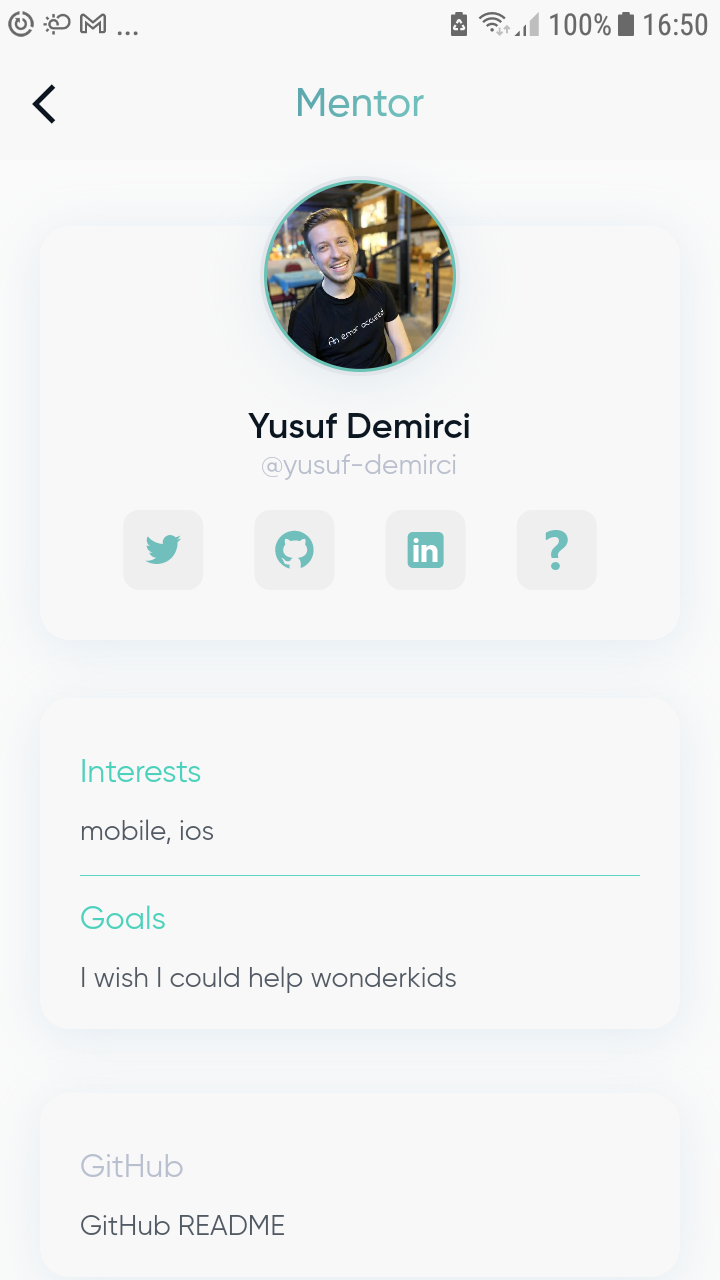
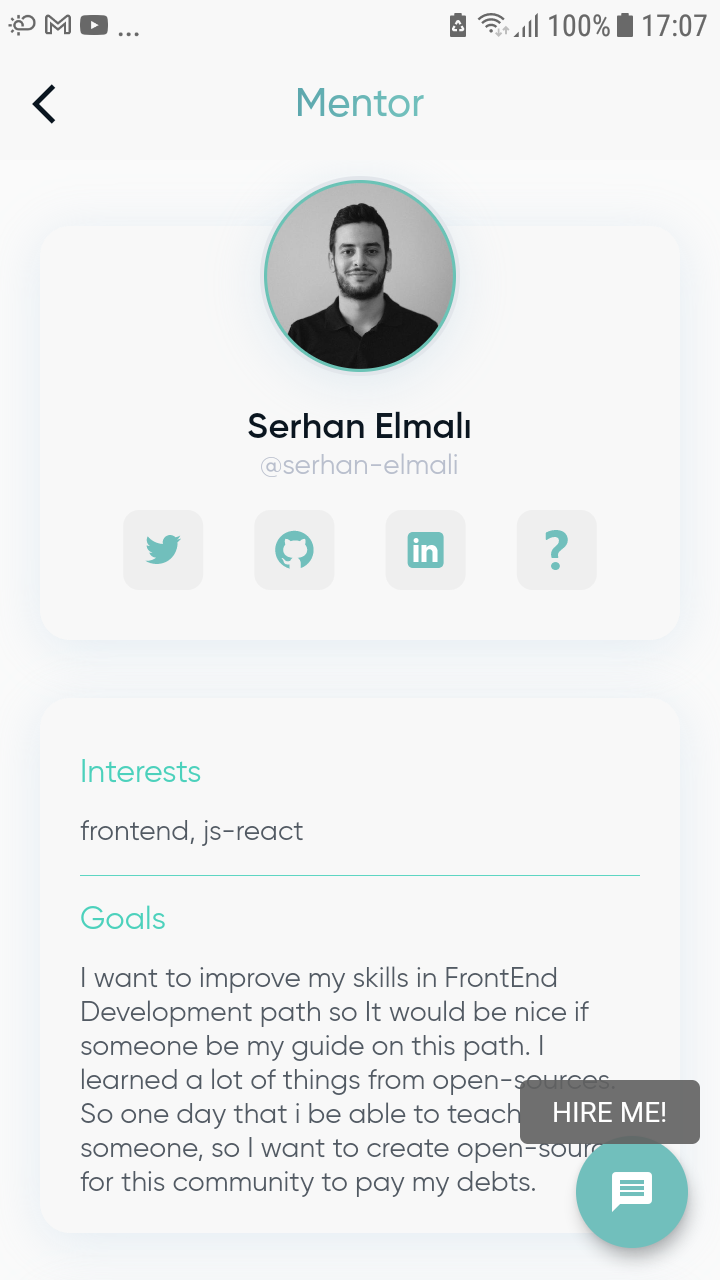
HIRE ME!

diff --git a/find_mentor/lib/page/home/persons_detail_page/persons_detail_page.dart b/find_mentor/lib/page/home/persons_detail_page/persons_detail_page.dart
@@ -1,5 +1,6 @@
 import 'package:flutter/material.dart';
 import 'package:flutter/cupertino.dart';
+import 'package:find_mentor/util/utility.dart';
 import 'package:find_mentor/model/person.dart';
 import 'package:find_mentor/util/app_constant.dart';
 import 'package:find_mentor/page/home/persons_detail_page/persons_detail_page_body.dart';
@@ -40,6 +41,19 @@ class PersonsDetailPage extends StatelessWidget {
         alignment: Alignment.center,
         children: <Widget>[PersonsDetailPageBody(personDetail: personDetail)],
       ),
+      floatingActionButton: (personDetail.isHireable)
+          ? FloatingActionButton(
+              tooltip: 'HIRE ME!',
+              onPressed: () {
+                Utility.launchURL(personDetail.mail);
+              },
+              child: Icon(
+                Icons.message,
+                color: Colors.white,
+              ),
+              backgroundColor: AppConstant.colorPrimary,
+            )
+          : Container(),
     );
   }
 }

diff --git a/find_mentor/lib/page/home/mentors_page/mentors_list.dart b/find_mentor/lib/page/home/mentors_page/mentors_list.dart
@@ -323,7 +323,7 @@ Widget mentorItem(Person mentor) {
                             ),
                           ),
                         ),
-                      )
+                      ),
                     ],
                   ),
                 ),
